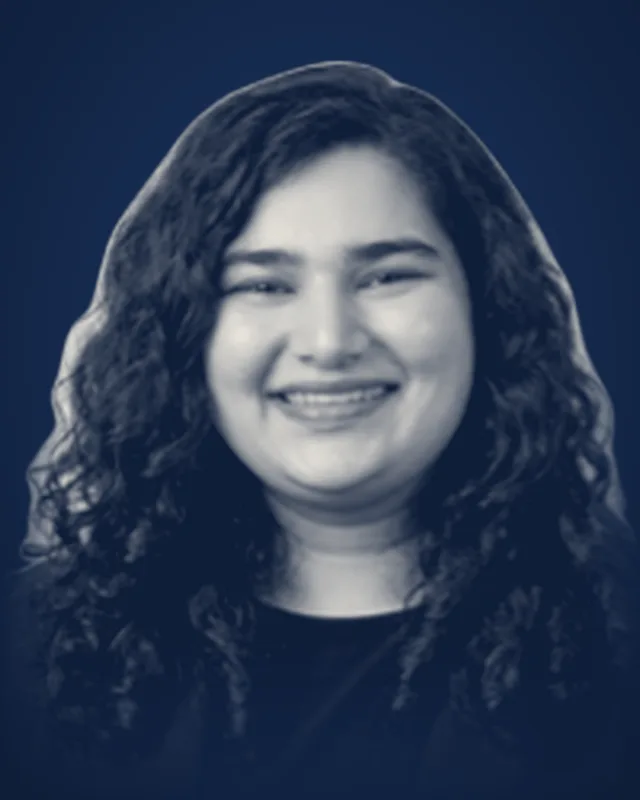
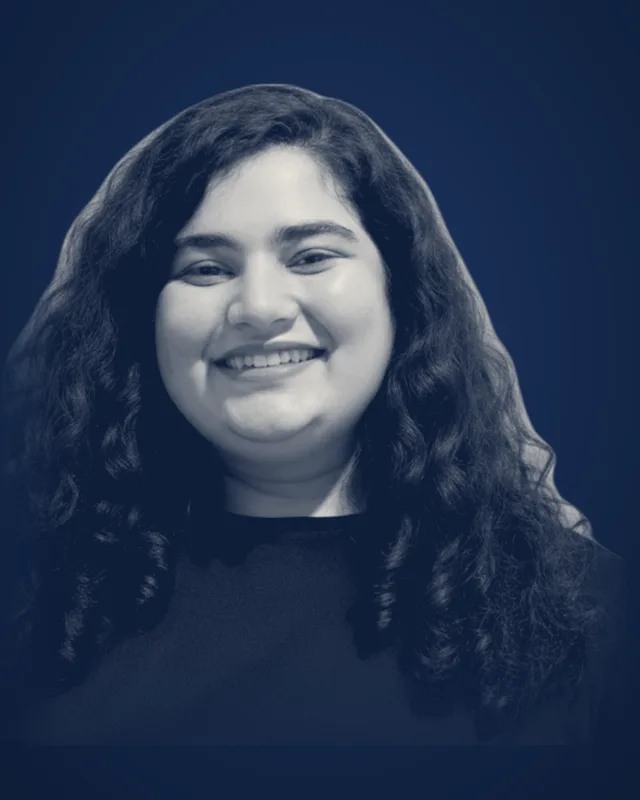
Team: new photos for Srushti and Uwais
Claude-Session: https://claude.ai/code/session_01Pxt8qhHvFzC6uR9PbtLzSj

diff --git a/site/about.html b/site/about.html
@@ -63,7 +63,8 @@
       <p class="muted">UK-based consulting leader with 22+ years leading enterprise and digital transformation programmes. He builds our client relationships in the UK and Europe.</p><a class="link" href="https://www.linkedin.com/in/vishal-jakkulwar/" rel="noopener" target="_blank">LinkedIn</a></div></article><article class="team-card reveal"><figure class="portrait-lg"><img src="assets/team/supriya-duo.webp" alt="Supriya Joshi, Technical Head" loading="lazy" width="640" height="800">
         <img class="colour" src="assets/team/supriya.webp" alt="" aria-hidden="true" loading="lazy" width="640" height="800"></figure>
       <div class="team-body"><h3 class="h3">Supriya Joshi</h3><p class="mono" style="color:var(--sky)">Technical Head</p>
-      <p class="muted">20+ years across technology, product and digital businesses in fintech, healthcare, travel and enterprise tech. She leads the technology behind our websites, platforms and AI-enabled work.</p><a class="link" href="https://www.linkedin.com/in/supriyaj46/" rel="noopener" target="_blank">LinkedIn</a></div></article><article class="team-card reveal"><figure class="portrait-lg portrait-lg--mono" role="img" aria-label="Uwais Ahmad"><span>UA</span></figure>
+      <p class="muted">20+ years across technology, product and digital businesses in fintech, healthcare, travel and enterprise tech. She leads the technology behind our websites, platforms and AI-enabled work.</p><a class="link" href="https://www.linkedin.com/in/supriyaj46/" rel="noopener" target="_blank">LinkedIn</a></div></article><article class="team-card reveal"><figure class="portrait-lg"><img src="assets/team/uwais-duo.webp" alt="Uwais Ahmad, Creative Head" loading="lazy" width="640" height="800">
+        <img class="colour" src="assets/team/uwais.webp" alt="" aria-hidden="true" loading="lazy" width="640" height="800"></figure>
       <div class="team-body"><h3 class="h3">Uwais Ahmad</h3><p class="mono" style="color:var(--sky)">Creative Head</p>
       <p class="muted">Mumbai-based director and producer, and founder of The Brain Freez 10. Since 2014 he has made brand, product and corporate films in live action and animation across India, the UAE and Europe.</p><a class="link" href="https://www.linkedin.com/in/uwaisahmad/" rel="noopener" target="_blank">LinkedIn</a></div></article><a class="team-card team-join reveal" href="careers">
       <div class="team-join-art" aria-hidden="true">+</div>

diff --git a/build.py b/build.py
@@ -358,7 +358,7 @@ TEAM = [
          bio="UK-based consulting leader with 22+ years leading enterprise and digital transformation programmes. He builds our client relationships in the UK and Europe."),
     dict(name="Supriya Joshi", role="Technical Head", photo="supriya", li="https://www.linkedin.com/in/supriyaj46/",
          bio="20+ years across technology, product and digital businesses in fintech, healthcare, travel and enterprise tech. She leads the technology behind our websites, platforms and AI-enabled work."),
-    dict(name="Uwais Ahmad", role="Creative Head", photo=None, li="https://www.linkedin.com/in/uwaisahmad/",
+    dict(name="Uwais Ahmad", role="Creative Head", photo="uwais", li="https://www.linkedin.com/in/uwaisahmad/",
          bio="Mumbai-based director and producer, and founder of The Brain Freez 10. Since 2014 he has made brand, product and corporate films in live action and animation across India, the UAE and Europe."),
 ]
 FOUNDERS = [(t["name"], t["role"]) for t in TEAM[:2]]
